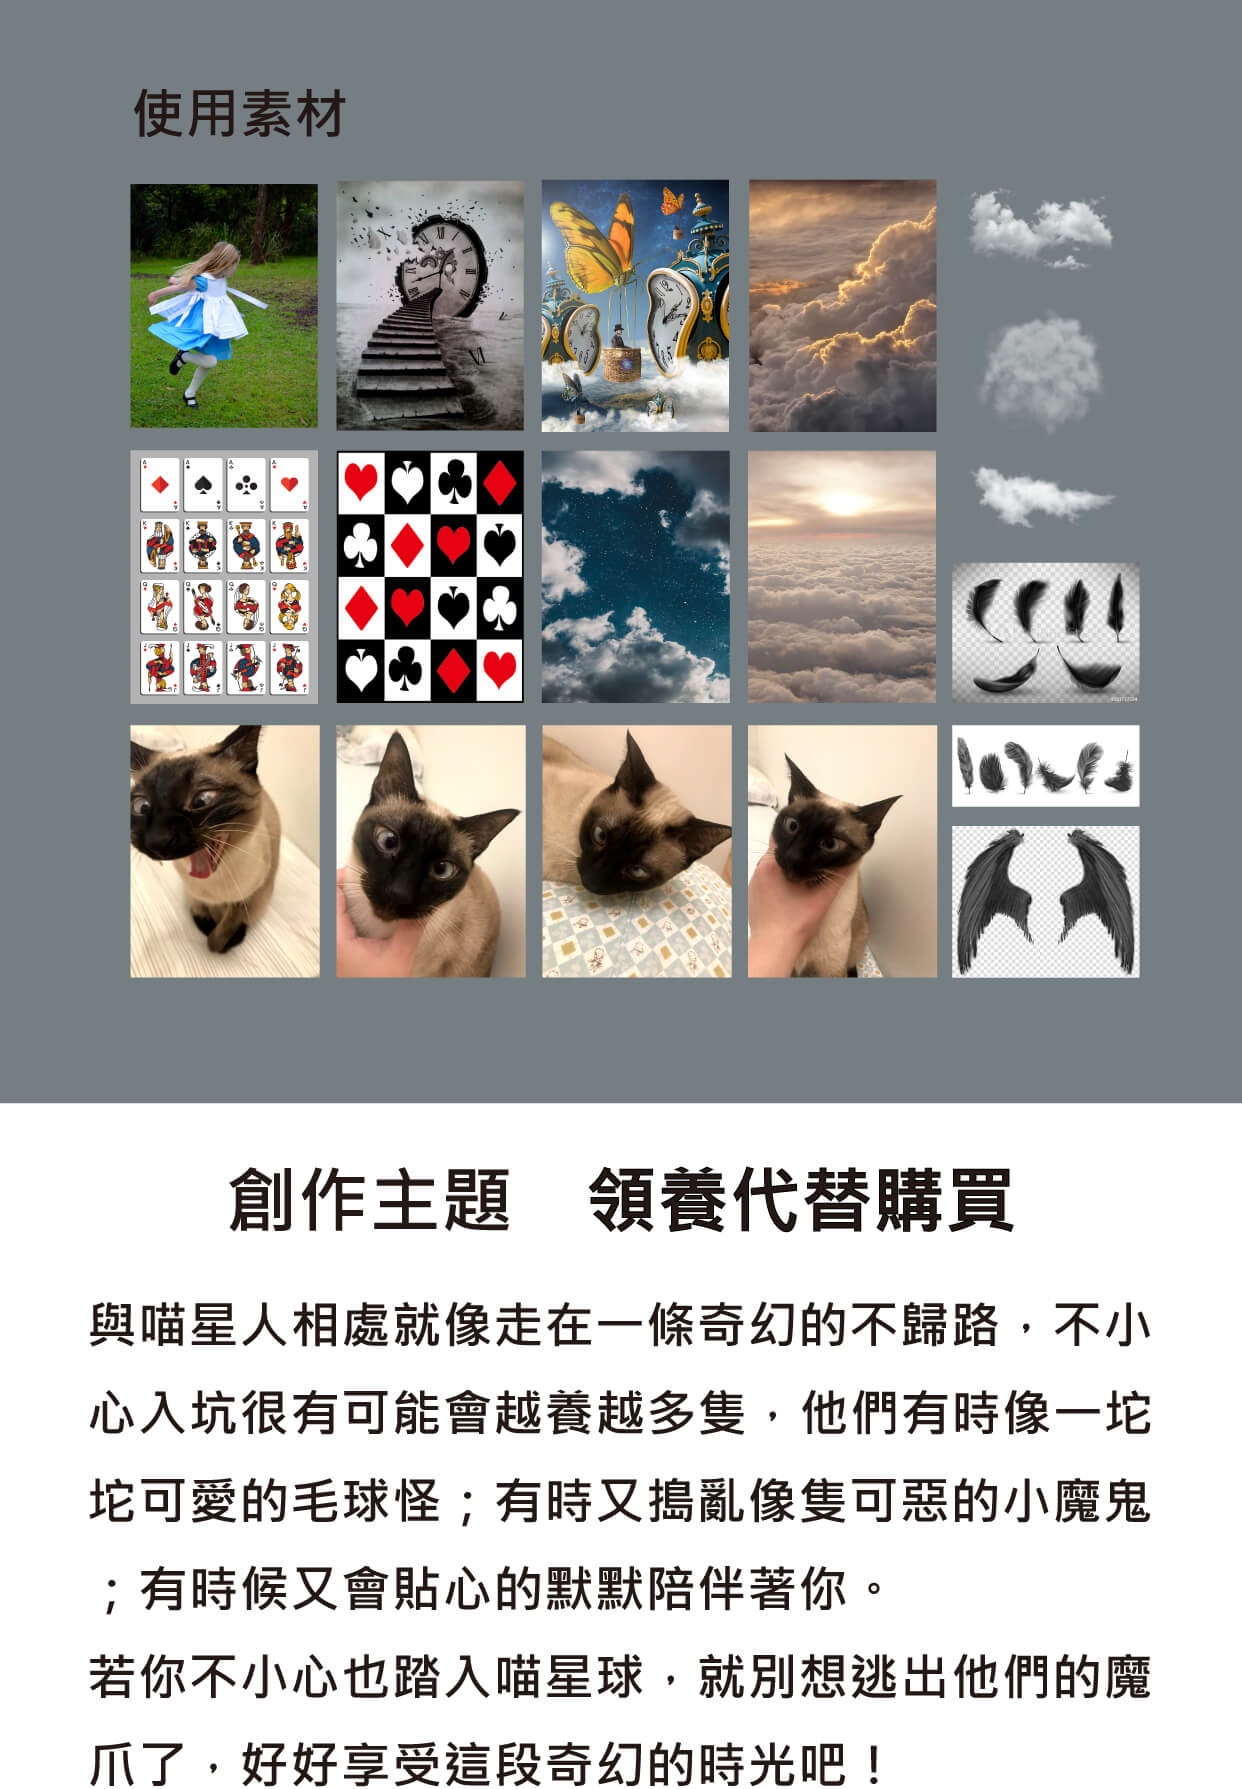
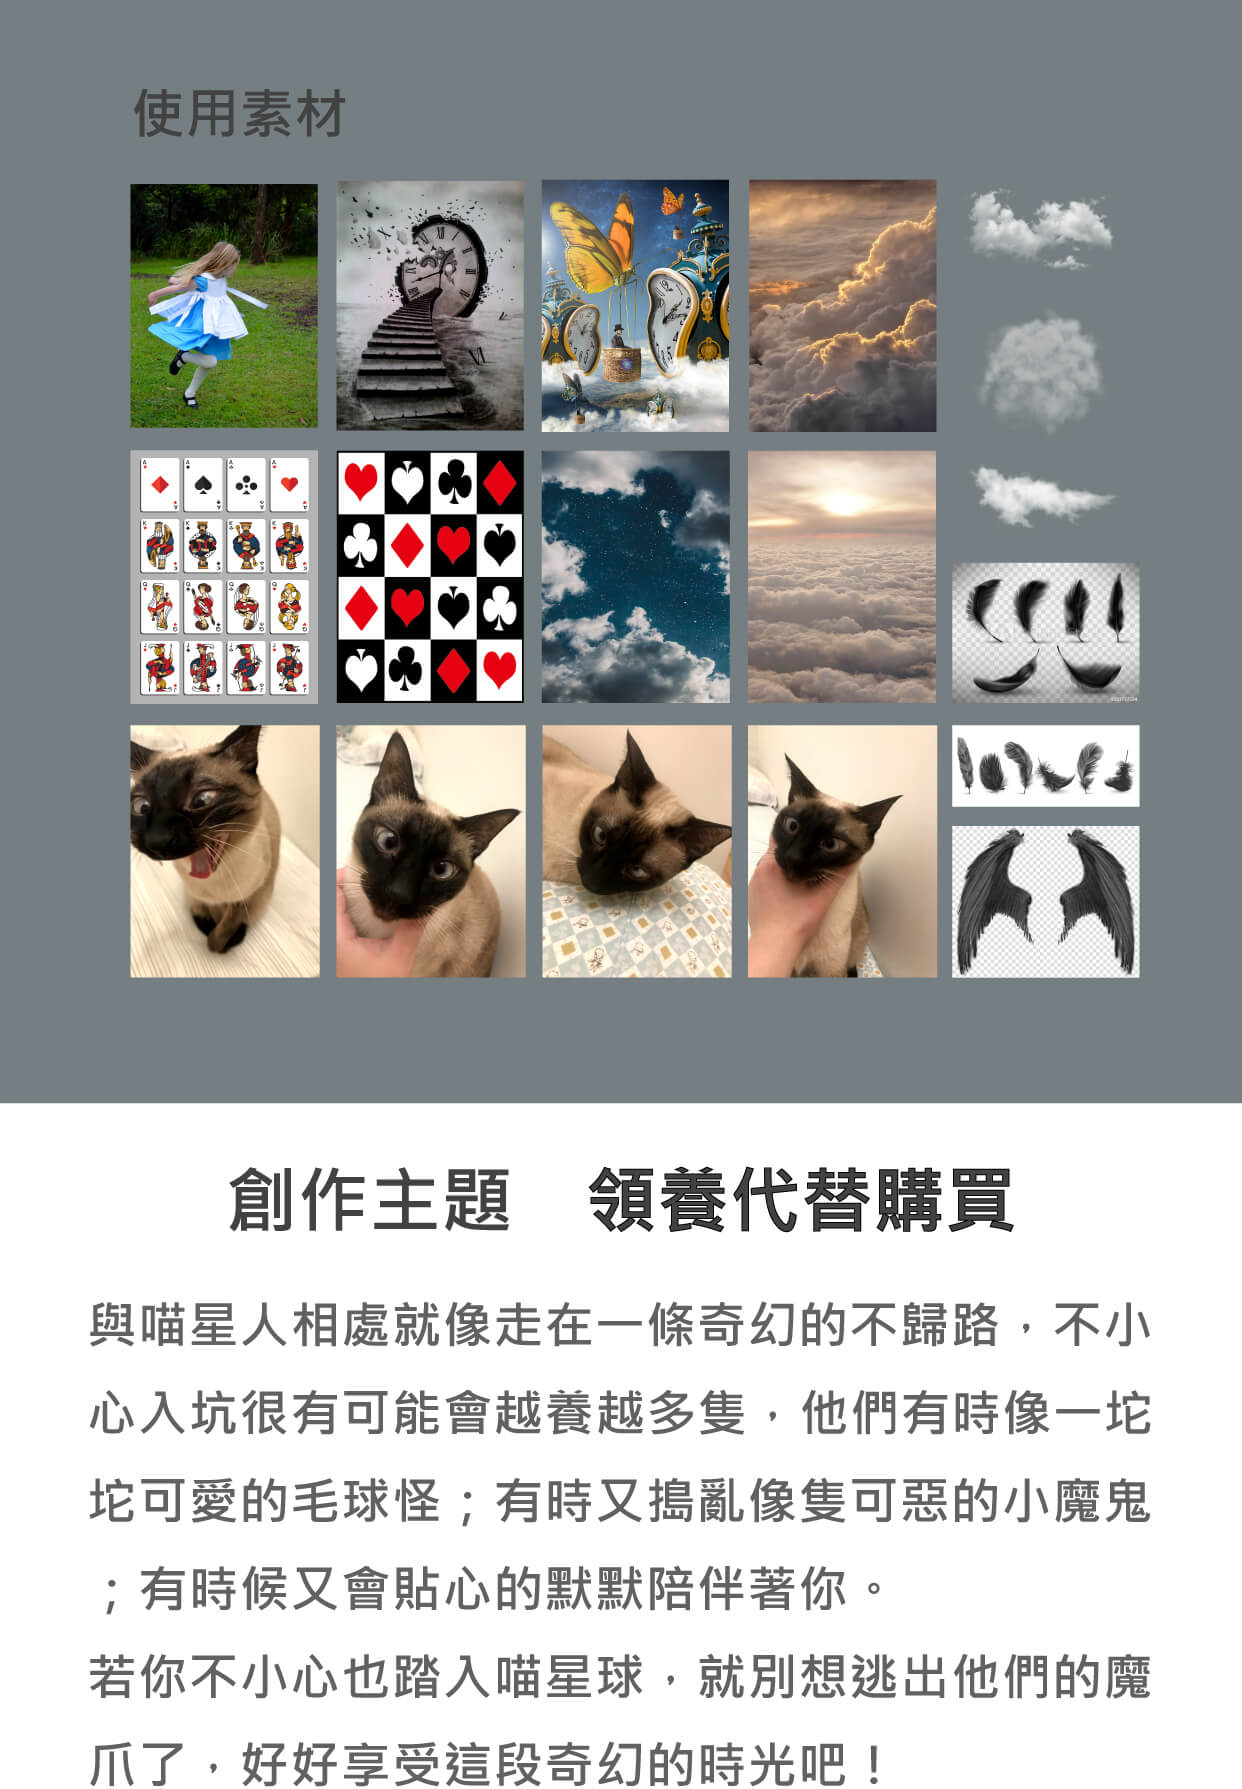
matte字顏色測試手機版

Changed region(s): [[0.0612, 0.6456, 0.9485, 1.0], [0.1224, 0.0307, 0.2754, 0.0922], [0.8567, 0.7071, 0.9179, 0.7993]]

diff --git a/protfolio/css/index.scss b/protfolio/css/index.scss
@@ -253,7 +253,7 @@ ul.sidenav .subheader {
     }
 
     .ajaxcard {
-        color: #424242;
+        color: #616161;
         background-color: rgba(255, 255, 255, 0.5);
         width: 400px;
         height: 400px;
@@ -267,7 +267,7 @@ ul.sidenav .subheader {
 
         h5 {
             span {
-                border-bottom: 2px solid rgb(87, 87, 87);
+                border-bottom: 2px solid #616161;
             }
         }
 

diff --git a/protfolio/css/index.css b/protfolio/css/index.css
@@ -275,7 +275,7 @@ ul.sidenav .subheader {
 }
 
 #ajax .ajaxcard {
-  color: #424242;
+  color: #616161;
   background-color: rgba(255, 255, 255, 0.5);
   width: 400px;
   height: 400px;
@@ -289,7 +289,7 @@ ul.sidenav .subheader {
 }
 
 #ajax .ajaxcard h5 span {
-  border-bottom: 2px solid #575757;
+  border-bottom: 2px solid #616161;
 }
 
 @media (max-width: 414px) {

diff --git a/protfolio/index.html b/protfolio/index.html
@@ -332,7 +332,7 @@
       </div>
     </div>
 
-    <h4 class="grey-text text-darken-1 center">Creation</h4>
+    <h4 class="grey-text text-darken-1 center">Photomontage</h4>
     <div class="container" id="okinawa">
       <div class="row">
         <div class="col s12 m6 okinawa-margin">
